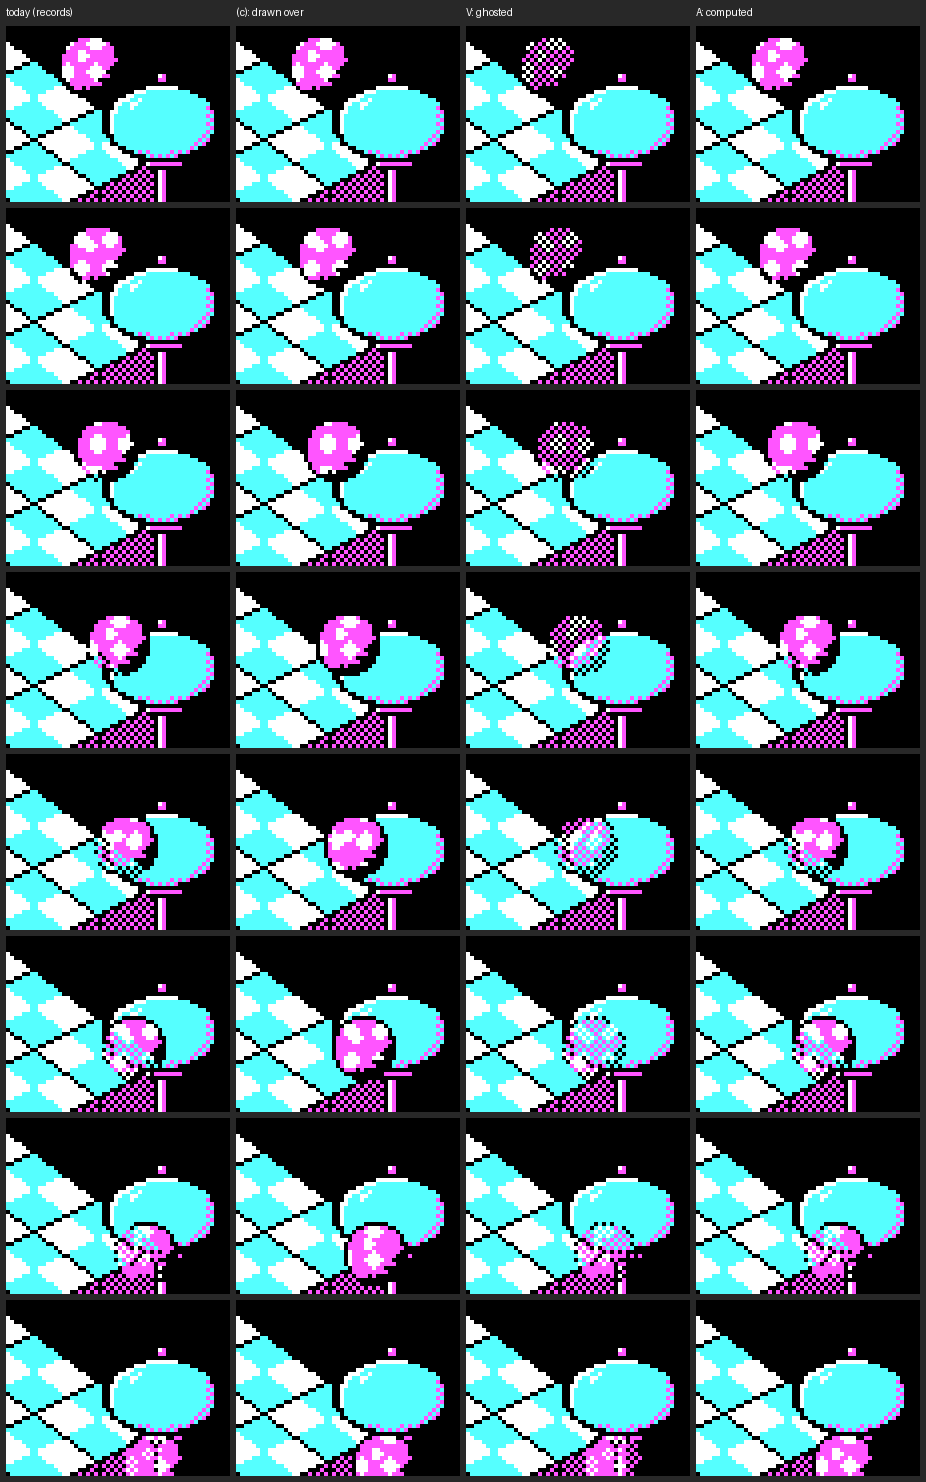
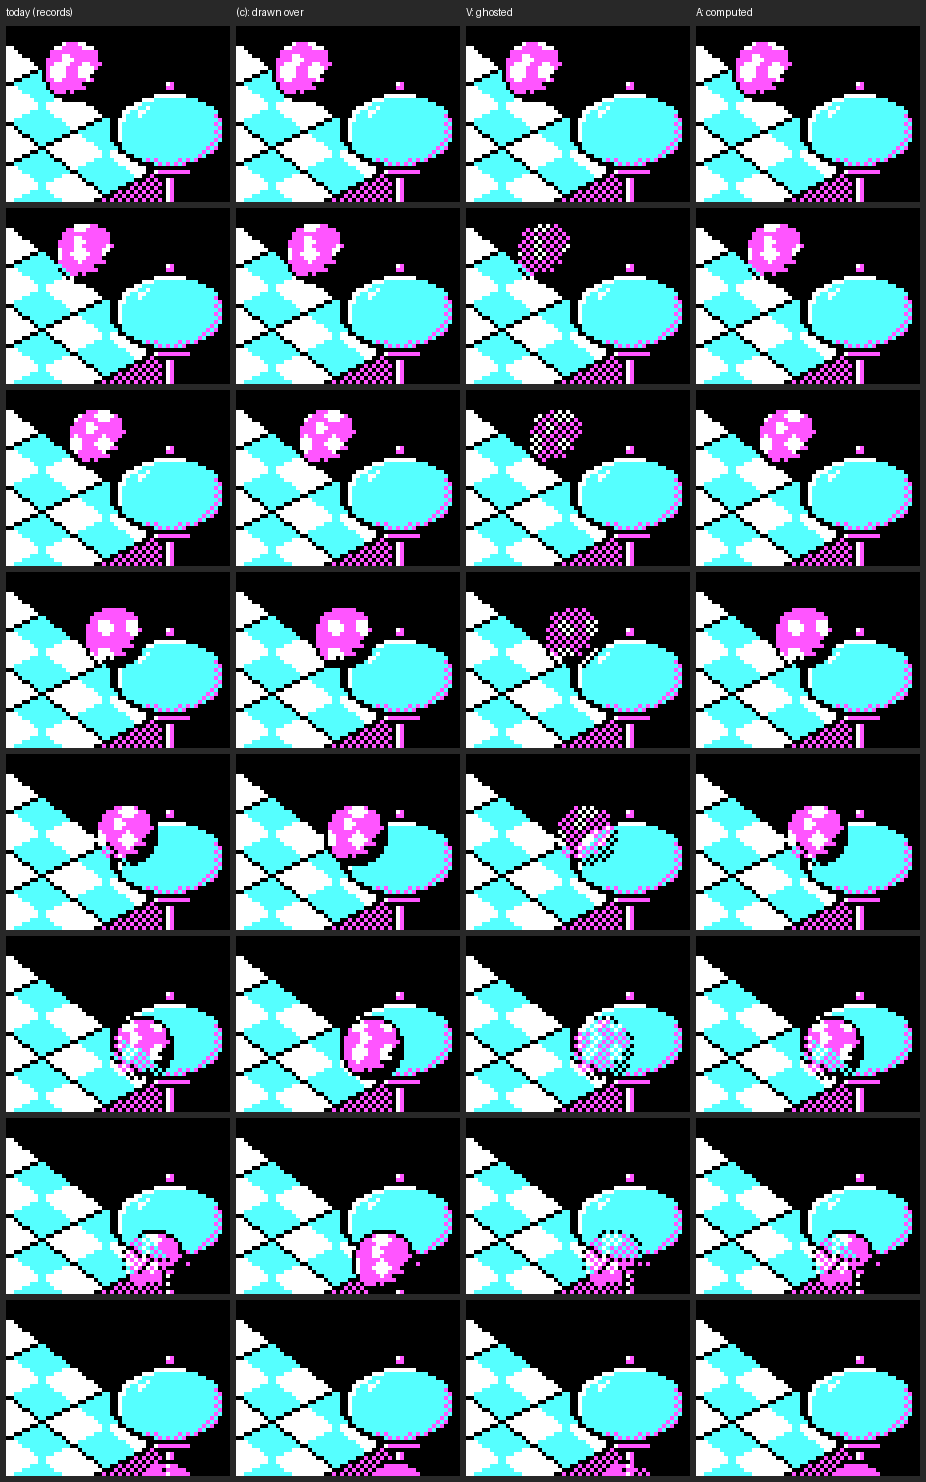
BONANZA occlusion deep-dive: fall pictures pick partly-hidden falls (WIP)
Claude-Session: https://claude.ai/code/session_01VGUqpknE1FwmpSSEmT5pfD

diff --git a/docs/plans/bounce-bonanza/occpics.py b/docs/plans/bounce-bonanza/occpics.py
@@ -52,9 +52,11 @@ def falls(c, gh):
                 path.append((p.px, p.py, p.sb, p.zb, p.air, (p.gx >> 12, p.gy >> 12)))
             else:
                 continue
-            score = 0
-            for (px, py, sb, zb, air, cell) in path:
-                score += len(B.laid_at(c, px, py, sb, zb, air, card=True))
+            score = 0                       # the frames where the rule hides PART of the ball: what tells the
+            for (px, py, sb, zb, air, cell) in path:    # options apart
+                if c.cells.get(cell, [0, 0, 0])[2] & 15 == B.KIND_VOID:
+                    f = P.hidden_frac(c, sb, zb, px, py)
+                    score += 0.15 < f < 0.85
             out.append((score, (wx, wy), path))
     out.sort(key=lambda t: -t[0])
     return out
@@ -129,8 +131,8 @@ def main():
         score, at, path_ = fl[0]
         out = os.path.join(HERE, "occ-fall-%s.png" % c.name.lower())
         sel = draw(c, gh, path_, out, P.Analytic(c, 2))
-        print("%s: %d back-edge falls from pokes; drew the one off (%d, %d) (%d card pixels laid over its %d "
-              "steps), frames %s -> %s" % (c.name, len(fl), at[0], at[1], score, len(path_),
+        print("%s: %d back-edge falls from pokes; drew the one off (%d, %d) (%d frames of its %d steps partly hidden"
+              "), frames %s -> %s" % (c.name, len(fl), at[0], at[1], score, len(path_),
                                            ", ".join("z %d" % s[3] for s in sel), os.path.relpath(out, B.ROOT)))
 
 
